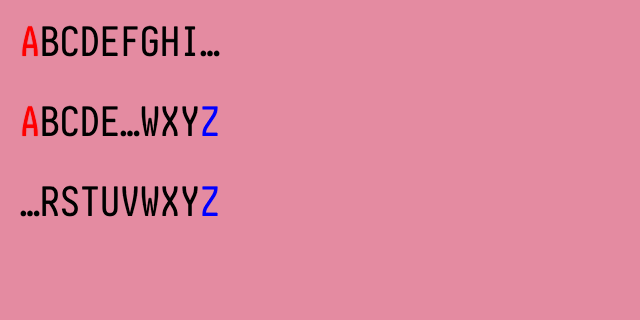
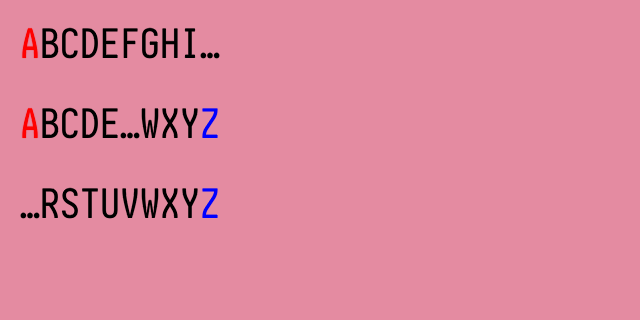
[DX1.12F2a] pxui_render GPU tests use Ui::set_view; ellipsis golden follows DX-BUG1's layout-top paint text
DX1.12F2 removed the per-property view setters but pxui_render's GPU test target was not compiled by the targeted landing checks. The ellipsis golden is the previous image moved down exactly 2 device pixels (1 pt at 2x) with zero other difference: DX-BUG1's intended layout-top placement of Paint::text_spans. The landing script now compiles every workspace test target.

diff --git a/crates/private/pxui_render/tests/gpu_pxui_render.rs b/crates/private/pxui_render/tests/gpu_pxui_render.rs
@@ -1371,14 +1371,14 @@ fn shared_backdrop_blur_case(prepared: bool, reenter: bool, large: bool) {
     let mut renderer = shared_renderer(&device, &ui);
     let mut nested = reenter.then(|| shared_renderer(&device, &ui));
     if prepared { renderer.resize(640, 600).expect("prepare blur targets before recording"); }
-    ui.view_offset(&glass.get().unwrap(), 80.0, 40.0);
+    ui.set_view(&glass.get().unwrap(), &pxui::ViewTransform::DEFAULT.offset(80.0, 40.0));
     ui.view_backdrop_blur(&glass.get().unwrap(), 8.0);
     ui.view_backdrop_saturation(&glass.get().unwrap(), 0.9);
-    ui.view_offset(&second.get().unwrap(), 220.0, 60.0);
+    ui.set_view(&second.get().unwrap(), &pxui::ViewTransform::DEFAULT.offset(220.0, 60.0));
     ui.view_backdrop_blur(&second.get().unwrap(), 1.5);
     ui.view_backdrop_saturation(&second.get().unwrap(), 0.9);
     build(&mut ui);
-    ui.view_offset(&glass.get().unwrap(), 40.0, 20.0);
+    ui.set_view(&glass.get().unwrap(), &pxui::ViewTransform::DEFAULT.offset(40.0, 20.0));
     build(&mut ui);
     build(&mut ui);
     if large { assert!(ui.layers().any(|layer|layer.breaks>64),"large blurred layer crosses the old stack limit"); }
@@ -1405,7 +1405,7 @@ fn shared_backdrop_blur_case(prepared: bool, reenter: bool, large: bool) {
         let mut open_pass = first.clone();
         let mut splits = 0;
         mem_sys::local_reset();
-        ui.view_transform_about(&glass.get().unwrap(),if frame%2==0 { 1.0 } else { 0.8 },[1.0,0.0,0.0,1.0],(80.0,40.0));
+        ui.set_view(&glass.get().unwrap(), &pxui::ViewTransform::DEFAULT.about(if frame%2==0 { 1.0 } else { 0.8 }, [1.0,0.0,0.0,1.0], (80.0,40.0)));
         ui.view_backdrop_blur(&glass.get().unwrap(),if frame%2==0 { 8.0 } else { 0.5 });
         let layers = ui.layers().count();
         for layer in 0..layers as u32 {
@@ -1795,9 +1795,9 @@ fn shared_public_view_controls_keep_native_draws_and_instances() {
             outer.set(Some(view));
         }).unwrap();
         let view=outer.get().unwrap();
-        ui.view_opacity(&view,0.5);
-        ui.view_opacity(&inner.get().unwrap(),0.5);
-        ui.view_scale(&view,scale);
+        ui.set_view(&view, &pxui::ViewTransform::DEFAULT.opacity(0.5));
+        ui.set_view(&inner.get().unwrap(), &pxui::ViewTransform::DEFAULT.opacity(0.5));
+        ui.set_view(&view, &pxui::ViewTransform::DEFAULT.scale(scale));
         ui.view_clip(&view,clip);
         if frame>=5 { assert_eq!(mem_sys::local_alloc_count(),0,"warm public view updates keep their table storage"); }
         let instances=ui.layer(0).instances;
